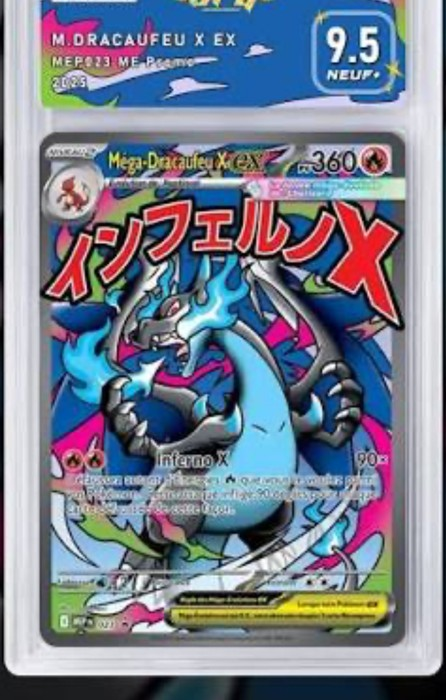
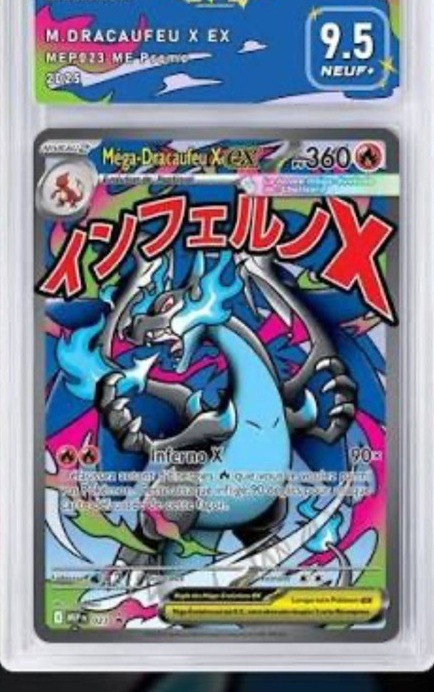
Straighten and tightly crop all remaining lot photos + card back
Same treatment as the commune card fix: perspective-corrected and
cropped tight to the actual object on alternative (Palkia card),
booster50 (pack), booster8 (pack), gradee (graded slab) — no more
wood-table background or skew on any of them.

Also re-cropped the card back to the real trading-card ratio (5:7)
and matched .mini-card's aspect-ratio to it, so the flipped card
backs in the draw animation fill their frame edge-to-edge with zero
letterboxing seam.

Claude-Session: https://claude.ai/code/session_01QhDLNPeqkC2rkMBKw1UuiV

diff --git a/Nsldkso.html b/Nsldkso.html
@@ -303,7 +303,7 @@ html.display-mode .display-badge{ display:block; }
   perspective:800px;
 }
 .mini-card{
-  aspect-ratio:2/3;position:relative;transform-style:preserve-3d;
+  aspect-ratio:5/7;position:relative;transform-style:preserve-3d;
   transition:transform .55s cubic-bezier(.22,.9,.32,1);
 }
 .mini-card.flipped{transform:rotateY(180deg)}
